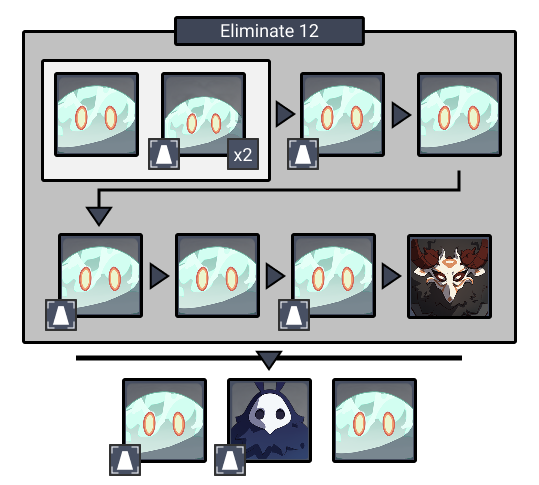
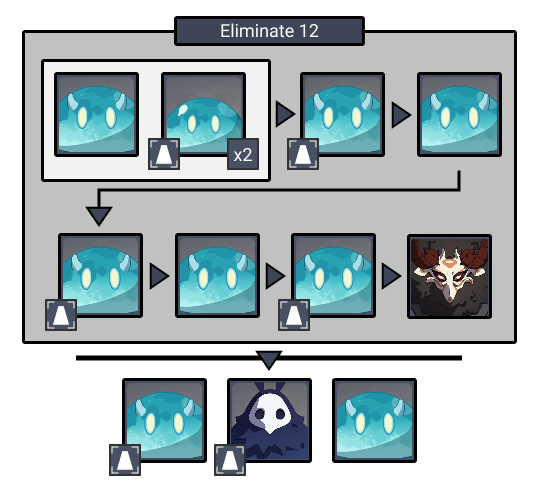
GitBook: [#292] fixing hydro slimes

diff --git a/monsters/mimics/hydro-ferret.md b/monsters/mimics/hydro-ferret.md
@@ -1,5 +1,7 @@
 # Hydro Ferret
 
+![](<../../.gitbook/assets/Hydro Mimic.png>)
+
 ## Resistances
 
 |                                                                                                                                                                                                           |                                                                                                                                                                                                           |                                                                                                                                                                                                           |                                                                                                                                                                                                           |                                                                                                                                                                                                           |                                                                                                                                                                                                           |                                                                                                                                                                                                           |                                                                                                                                                                                                           |

diff --git a/monsters/mimics/hydro-raptor.md b/monsters/mimics/hydro-raptor.md
@@ -1,5 +1,7 @@
 # Hydro Raptor
 
+![](<../../.gitbook/assets/Hydro Mimic.png>)
+
 ## Resistances
 
 |                                                                                                                                                                                                           |                                                                                                                                                                                                           |                                                                                                                                                                                                           |                                                                                                                                                                                                           |                                                                                                                                                                                                           |                                                                                                                                                                                                           |                                                                                                                                                                                                           |                                                                                                                                                                                                           |

diff --git a/monsters/mimics/hydro-chick.md b/monsters/mimics/hydro-chick.md
@@ -1,5 +1,7 @@
 # Hydro Finch
 
+![](<../../.gitbook/assets/Hydro Mimic.png>)
+
 ## Resistances
 
 |                                                                                                                                                                                                           |                                                                                                                                                                                                           |                                                                                                                                                                                                           |                                                                                                                                                                                                           |                                                                                                                                                                                                           |                                                                                                                                                                                                           |                                                                                                                                                                                                           |                                                                                                                                                                                                           |

diff --git a/monsters/mimics/hydro-crane.md b/monsters/mimics/hydro-crane.md
@@ -1,5 +1,7 @@
 # Hydro Crane
 
+![](<../../.gitbook/assets/Hydro Mimic.png>)
+
 ## Resistances
 
 |                                                                                                                                                                                                           |                                                                                                                                                                                                           |                                                                                                                                                                                                           |                                                                                                                                                                                                           |                                                                                                                                                                                                           |                                                                                                                                                                                                           |                                                                                                                                                                                                           |                                                                                                                                                                                                           |

diff --git a/monsters/mimics/hydro-boar.md b/monsters/mimics/hydro-boar.md
@@ -1,5 +1,7 @@
 # Hydro Boar
 
+![](<../../.gitbook/assets/Hydro Mimic.png>)
+
 ## Resistances
 
 |                                                                                                                                                                                                           |                                                                                                                                                                                                           |                                                                                                                                                                                                           |                                                                                                                                                                                                           |                                                                                                                                                                                                           |                                                                                                                                                                                                           |                                                                                                                                                                                                           |                                                                                                                                                                                                           |

diff --git a/monsters/mimics/hydro-crab.md b/monsters/mimics/hydro-crab.md
@@ -1,5 +1,7 @@
 # Hydro Crab
 
+![](<../../.gitbook/assets/Hydro Mimic.png>)
+
 ## Resistances
 
 |                                                                                                                                                                                                           |                                                                                                                                                                                                           |                                                                                                                                                                                                           |                                                                                                                                                                                                           |                                                                                                                                                                                                           |                                                                                                                                                                                                           |                                                                                                                                                                                                           |                                                                                                                                                                                                           |

diff --git a/monsters/mimics/hydro-duck.md b/monsters/mimics/hydro-duck.md
@@ -1,5 +1,7 @@
 # Hydro Duck
 
+![](<../../.gitbook/assets/Hydro Mimic.png>)
+
 ## Resistances
 
 |                                                                                                                                                                                                           |                                                                                                                                                                                                           |                                                                                                                                                                                                           |                                                                                                                                                                                                           |                                                                                                                                                                                                           |                                                                                                                                                                                                           |                                                                                                                                                                                                           |                                                                                                                                                                                                           |

diff --git a/monsters/mimics/hydro-frog.md b/monsters/mimics/hydro-frog.md
@@ -1,5 +1,7 @@
 # Hydro Frog
 
+![](<../../.gitbook/assets/Hydro Mimic.png>)
+
 ## Resistances
 
 |                                                                                                                                                                                                           |                                                                                                                                                                                                           |                                                                                                                                                                                                           |                                                                                                                                                                                                           |                                                                                                                                                                                                           |                                                                                                                                                                                                           |                                                                                                                                                                                                           |                                                                                                                                                                                                           |

diff --git a/changelogs/versions/v22.md b/changelogs/versions/v22.md
@@ -44,4 +44,5 @@
 | 14   | Added Oceanid                        | Prad                |
 | 15   | Updated blessings                    | Blep                |
 |      | Adding Anemo/Geo/Dendro Samachurls   | Blep, Hyper, Syphex |
+| 19   | Fixing Hydro Slime icon              | Blep                |
 
